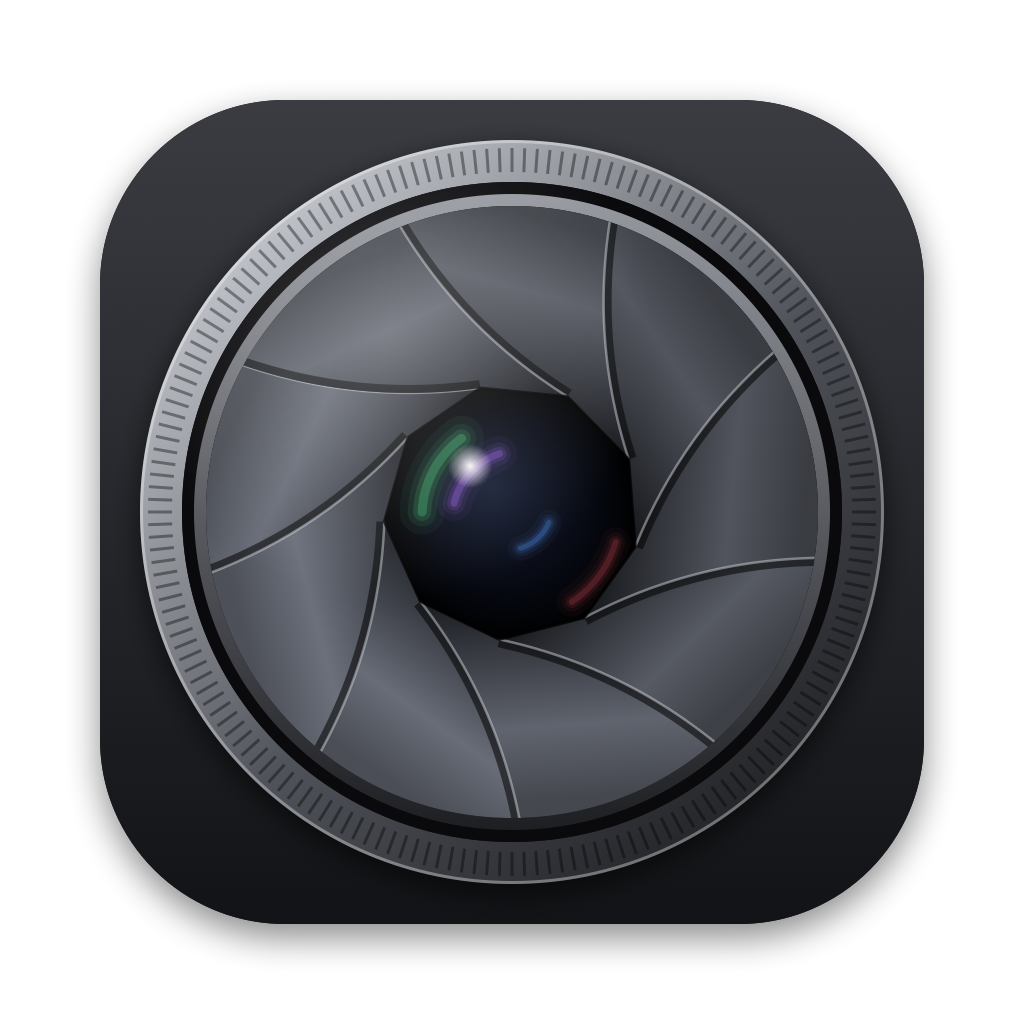
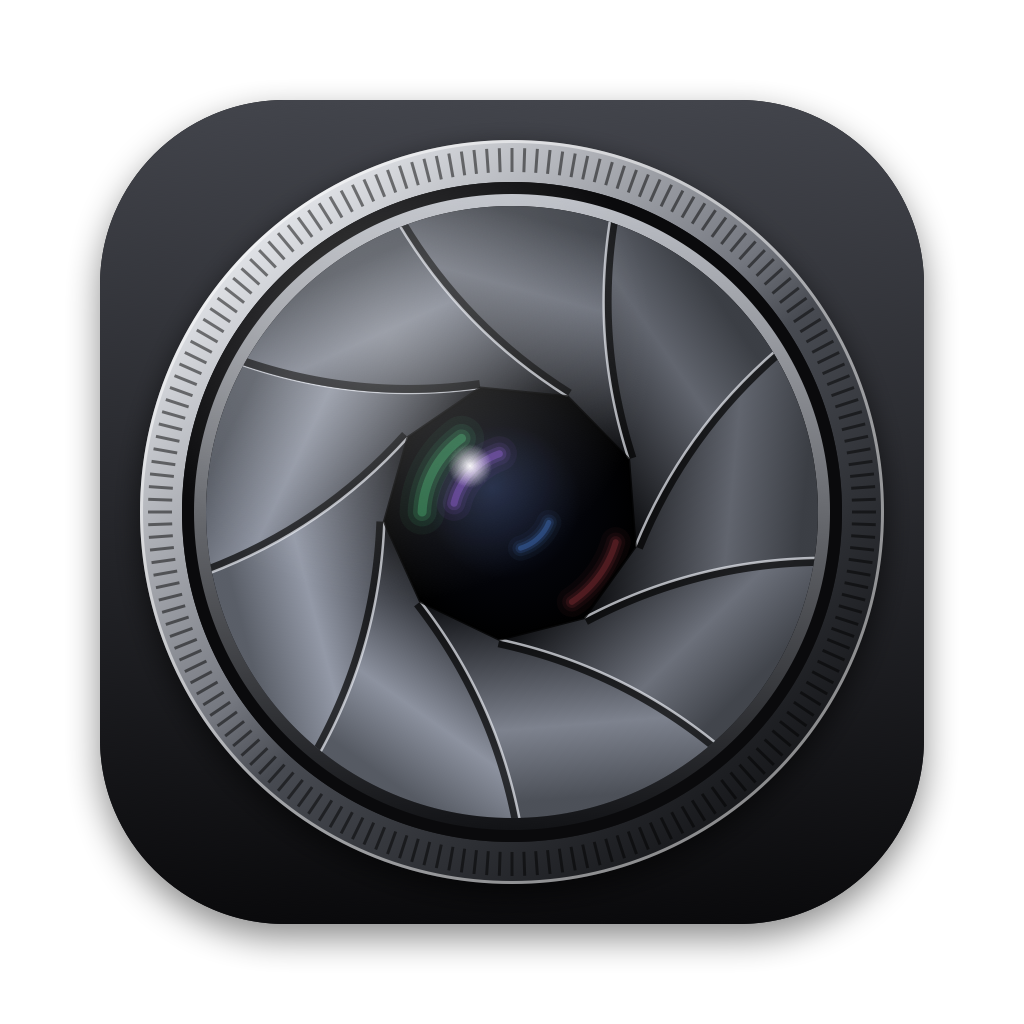
アイコンのコントラストを強めた(羽根・鏡筒・背景の明暗差を広げた)

diff --git a/scripts/make-icon.swift b/scripts/make-icon.swift
@@ -54,7 +54,7 @@ ctx.restoreGState()
 ctx.saveGState()
 ctx.addPath(bodyPath)
 ctx.clip()
-ctx.drawLinearGradient(gradient([(0, color(58, 60, 66)), (1, color(18, 19, 22))]),
+ctx.drawLinearGradient(gradient([(0, color(66, 68, 75)), (1, color(10, 10, 12))]),
                        start: CGPoint(x: 0, y: body.maxY), end: CGPoint(x: 0, y: body.minY), options: [])
 ctx.restoreGState()
 
@@ -71,8 +71,8 @@ ctx.restoreGState()
 ctx.saveGState()
 ctx.addPath(ring(barrelR, 330))
 ctx.clip(using: .evenOdd)
-ctx.drawLinearGradient(gradient([(0, color(196, 199, 205)), (0.45, color(104, 107, 114)),
-                                 (0.55, color(80, 83, 90)), (1, color(34, 35, 39))]),
+ctx.drawLinearGradient(gradient([(0, color(232, 234, 238)), (0.45, color(116, 119, 127)),
+                                 (0.55, color(72, 75, 82)), (1, color(20, 21, 24))]),
                        start: CGPoint(x: center.x - 260, y: center.y + 300),
                        end: CGPoint(x: center.x + 260, y: center.y - 300), options: [])
 // ローレット(細かい刻み)
@@ -82,12 +82,12 @@ for i in 0..<180 {
     ctx.move(to: point(340, a))
     ctx.addLine(to: point(364, a))
 }
-ctx.setStrokeColor(color(0, 0, 0, 0.38))
+ctx.setStrokeColor(color(0, 0, 0, 0.5))
 ctx.strokePath()
 ctx.restoreGState()
 // 外周のハイライト
 ctx.addPath(circle(barrelR - 1.5))
-ctx.setStrokeColor(color(255, 255, 255, 0.35))
+ctx.setStrokeColor(color(255, 255, 255, 0.5))
 ctx.setLineWidth(3)
 ctx.strokePath()
 
@@ -98,7 +98,7 @@ ctx.fillPath()
 ctx.saveGState()
 ctx.addPath(ring(318, 306))
 ctx.clip(using: .evenOdd)
-ctx.drawLinearGradient(gradient([(0, color(150, 153, 160)), (1, color(30, 31, 35))]),
+ctx.drawLinearGradient(gradient([(0, color(190, 193, 200)), (1, color(18, 19, 22))]),
                        start: CGPoint(x: center.x, y: center.y + 318),
                        end: CGPoint(x: center.x, y: center.y - 318), options: [])
 ctx.restoreGState()
@@ -147,15 +147,15 @@ for k in 0..<blades {
     ctx.addPath(path)
     ctx.clip()
     let mid = CGFloat(k) / CGFloat(blades)
-    let lift = 0.82 + 0.28 * (0.5 + 0.5 * sin(mid * 2 * .pi + 0.9))  // 羽根ごとに少し明るさを変える
-    let dark = color(26 * lift, 28 * lift, 33 * lift)
-    let light = color(98 * lift, 102 * lift, 112 * lift)
+    let lift = 0.75 + 0.4 * (0.5 + 0.5 * sin(mid * 2 * .pi + 0.9))  // 羽根ごとに少し明るさを変える
+    let dark = color(12 * lift, 13 * lift, 16 * lift)
+    let light = color(128 * lift, 133 * lift, 145 * lift)
     let outer = point(rim, atan2(vk.y - center.y, vk.x - center.x) + 0.55)
-    ctx.drawLinearGradient(gradient([(0, dark), (0.65, light), (1, color(70 * lift, 73 * lift, 80 * lift))]),
+    ctx.drawLinearGradient(gradient([(0, dark), (0.65, light), (1, color(78 * lift, 82 * lift, 90 * lift))]),
                            start: vk, end: outer, options: [.drawsBeforeStartLocation, .drawsAfterEndLocation])
     // 隣の羽根の下に潜る側の影
     ctx.addPath({ let p = CGMutablePath(); p.move(to: vk1); p.addQuadCurve(to: rimPoints[k], control: controls[k]); return p }())
-    ctx.setStrokeColor(color(0, 0, 0, 0.55))
+    ctx.setStrokeColor(color(0, 0, 0, 0.7))
     ctx.setLineWidth(16)
     ctx.strokePath()
     ctx.restoreGState()
@@ -165,7 +165,7 @@ for k in 0..<blades {
     edge.move(to: vk)
     edge.addQuadCurve(to: rimPoints[prev], control: controls[prev])
     ctx.addPath(edge)
-    ctx.setStrokeColor(color(225, 228, 235, 0.45))
+    ctx.setStrokeColor(color(235, 238, 245, 0.7))
     ctx.setLineWidth(2.5)
     ctx.strokePath()
 }
@@ -179,7 +179,7 @@ opening.closeSubpath()
 ctx.saveGState()
 ctx.addPath(opening)
 ctx.clip()
-ctx.drawRadialGradient(gradient([(0, color(22, 30, 52)), (0.7, color(6, 8, 16)), (1, color(0, 0, 0))]),
+ctx.drawRadialGradient(gradient([(0, color(24, 34, 62)), (0.6, color(3, 4, 9)), (1, color(0, 0, 0))]),
                        startCenter: CGPoint(x: center.x - 20, y: center.y + 25), startRadius: 0,
                        endCenter: center, endRadius: openingR, options: [.drawsAfterEndLocation])
 // コーティングの反射(緑・紫・赤みのある弧)
@@ -214,7 +214,7 @@ ctx.strokePath()
 ctx.saveGState()
 ctx.addPath(circle(330))
 ctx.clip()
-ctx.drawRadialGradient(gradient([(0, color(255, 255, 255, 0.20)), (1, color(255, 255, 255, 0))]),
+ctx.drawRadialGradient(gradient([(0, color(255, 255, 255, 0.24)), (1, color(255, 255, 255, 0))]),
                        startCenter: CGPoint(x: center.x - 120, y: center.y + 170), startRadius: 0,
                        endCenter: CGPoint(x: center.x - 120, y: center.y + 170), endRadius: 260, options: [])
 ctx.restoreGState()
